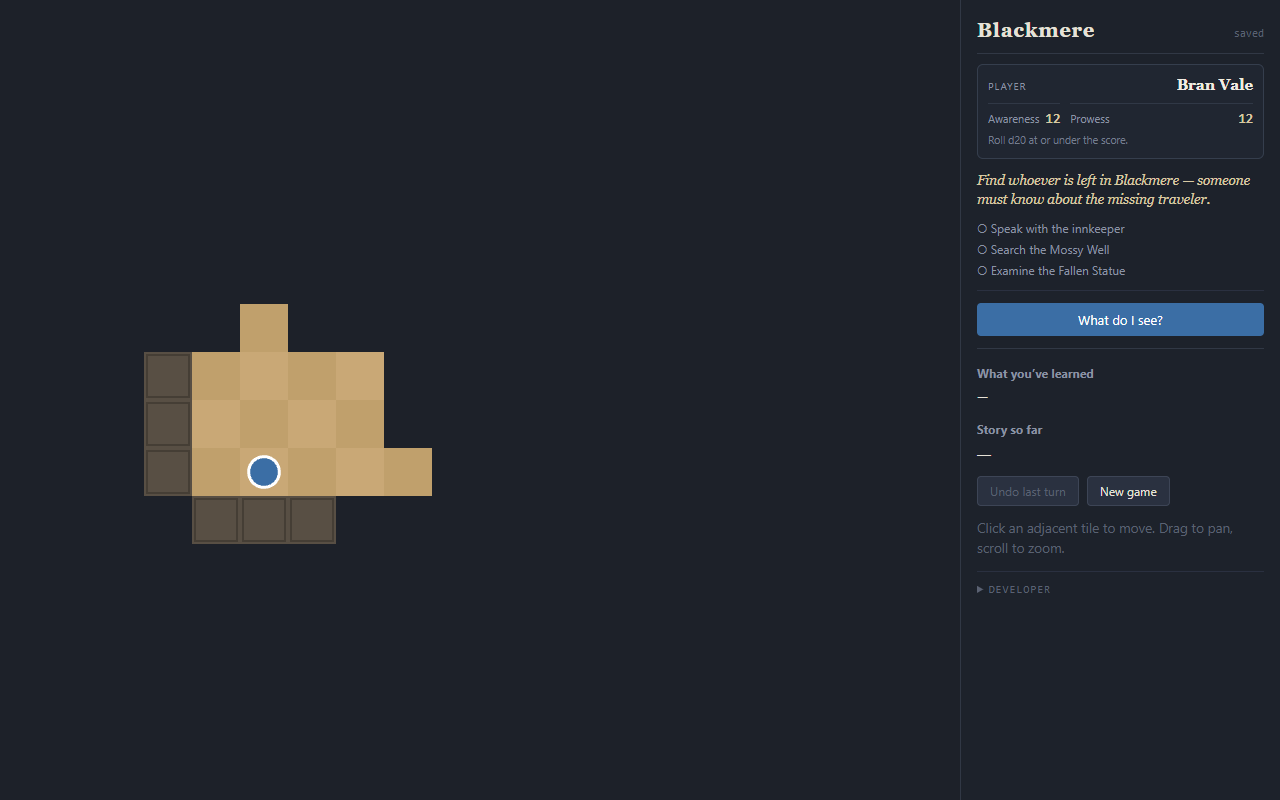
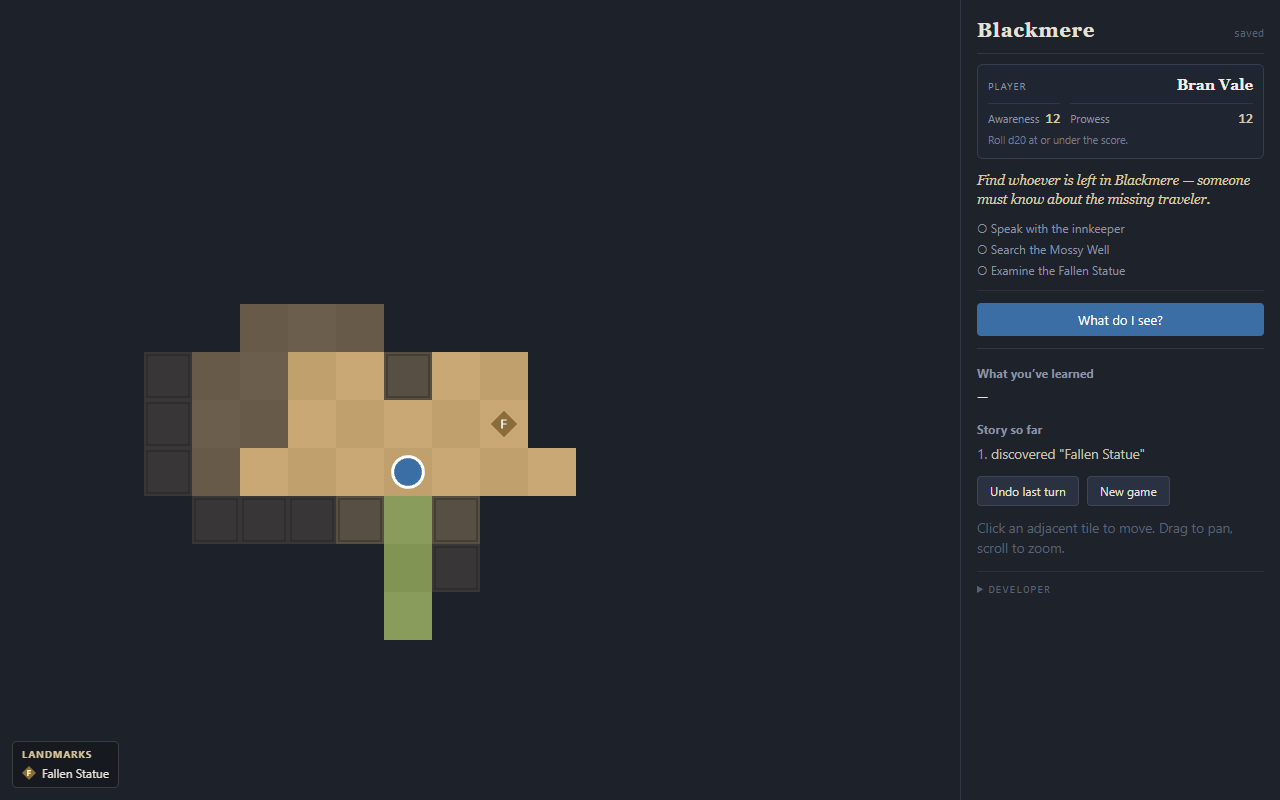
Update status for discovered landmarks (#3)

Changed region(s): [[0.0938, 0.375, 0.4688, 0.8125], [0.75, 0.5625, 0.9062, 0.625], [0.0, 0.9375, 0.0938, 1.0]]

diff --git a/index.html b/index.html
@@ -55,26 +55,26 @@
         <div class="section-heading">
           <div>
             <p class="eyebrow">Latest verified local build</p>
-            <h2>Stage 46: player identity is now visible and grounded</h2>
+            <h2>Stage 47: discovered landmarks now explain themselves</h2>
           </div>
           <p class="updated">Updated July 20, 2026</p>
         </div>
 
         <div class="metrics" aria-label="Current verification evidence">
-          <div><strong>1,126</strong><span>deterministic tests</span></div>
-          <div><strong>36 / 36</strong><span>Chrome journeys</span></div>
-          <div><strong>46</strong><span>completed stage</span></div>
+          <div><strong>1,129</strong><span>deterministic tests</span></div>
+          <div><strong>37 / 37</strong><span>Chrome journeys</span></div>
+          <div><strong>47</strong><span>completed stage</span></div>
           <div><strong>0</strong><span>live calls for this stage</span></div>
         </div>
 
         <figure class="current-shot">
           <img
             src="assets/current-status.png"
-            alt="Blackmere development build showing the map and a player card for Bran Vale with Awareness 12 and Prowess 12"
+            alt="Blackmere development build showing a discovered Fallen Statue marked F on the map and named in a Landmarks legend"
           />
           <figcaption>
-            The latest player-facing view. The name is persistent session identity; Awareness and
-            Prowess are exact canonical abilities, not values invented by the UI or model.
+            The Fallen Statue was revealed by canonical perception. One safe projection supplies
+            both its map glyph and full-name legend; undiscovered landmarks remain absent.
           </figcaption>
         </figure>
       </section>
@@ -175,7 +175,13 @@
           <h2 id="timeline-title">What changed in the current development run</h2>
         </div>
         <ol>
-          <li><strong>Stages 45–46</strong><span>Persistent player name and compact ability card.</span></li>
+          <li>
+            <strong>Stages 45–47</strong
+            ><span
+              >Persistent player identity, compact abilities, and self-explaining discovered
+              landmarks.</span
+            >
+          </li>
           <li><strong>Stages 40–44</strong><span>Canonical state lab and a chronological “Story so far”.</span></li>
           <li><strong>Stages 27–38</strong><span>Recorded risk, a bounded Mire Hound encounter, threat map cues, and optional progress.</span></li>
           <li><strong>Stages 21–26</strong><span>Grounded scene speech, interruptible NPC scenes, and bounded material actions.</span></li>